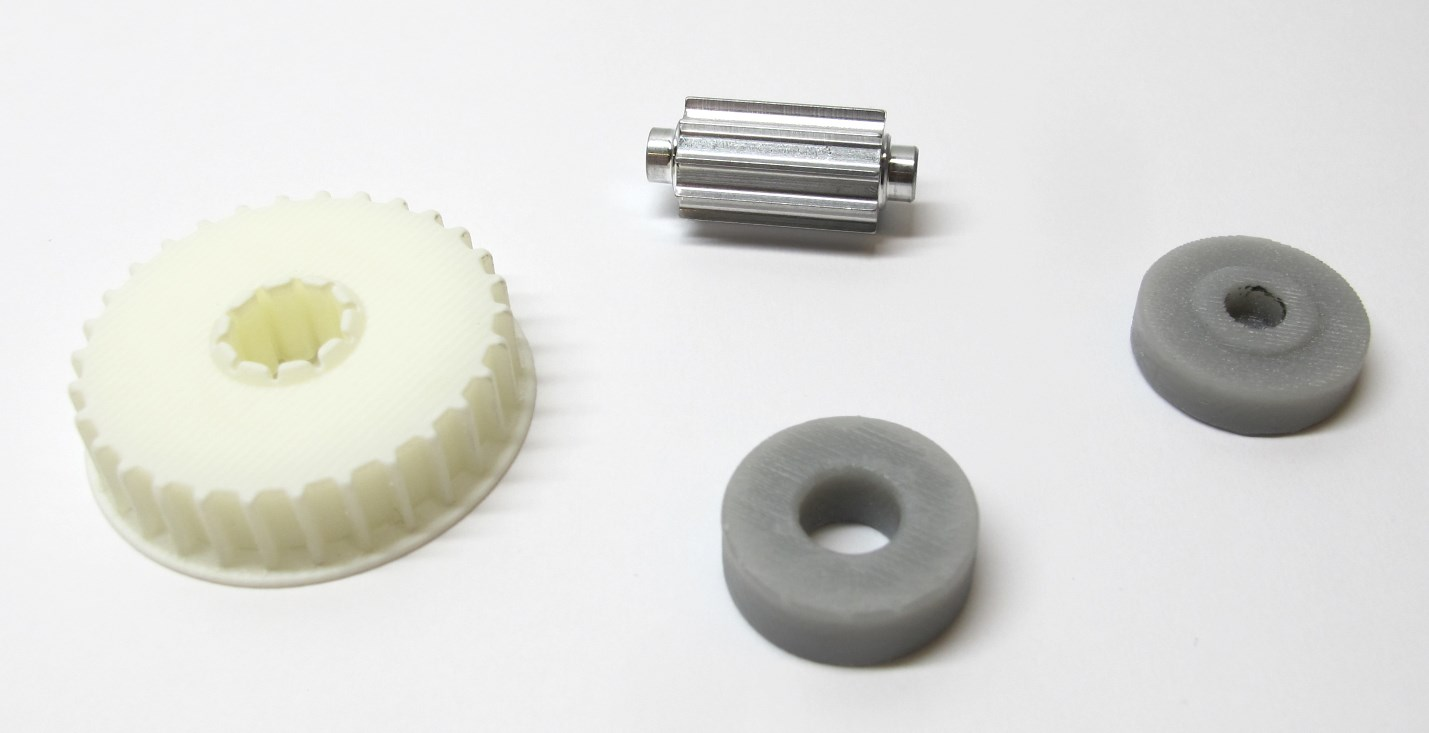
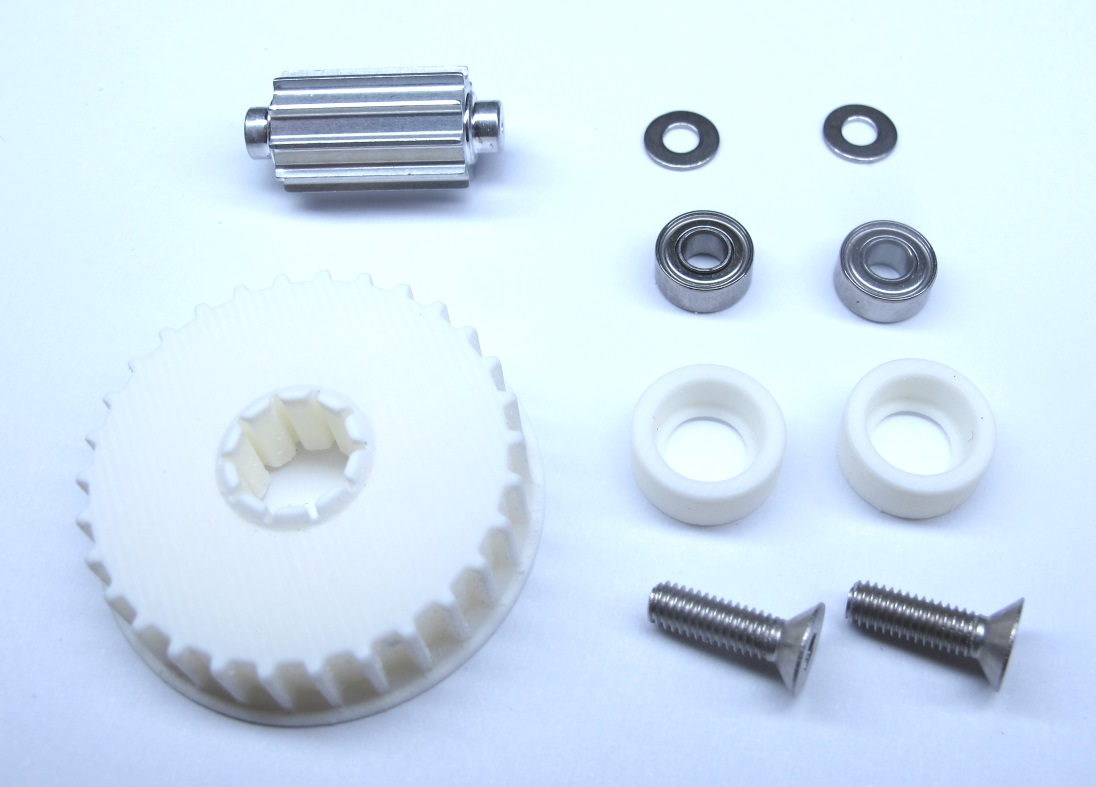
Updating documentation

diff --git a/mechanics/actuator_module_v1/details/details_center_pulley_preparation.md b/mechanics/actuator_module_v1/details/details_center_pulley_preparation.md
@@ -1,10 +1,8 @@
-Details Center Pulley Preparation
-=======================
-<img src="../images/pulley_preparation_7.jpg" width="400"> <br>*Center Pulley Assembled*  
+# Details Center Pulley Preparation
+## Description
+<img src="../images/pulley_preparation_1.jpg" width="300"> <br>*Starting Point: Center Pulley and Timing Belt Tensioner Components*  
 
-Description
-------------
-<img src="../images/pulley_preparation_1.jpg" width="400"> <br>*Center Pulley AT3 T30, Center Pulley AT3 T10 and Assembly Tools*  
+<img src="../images/pulley_preparation_1_1.jpg" width="300"> <br>*End Result: Center Pulley and Timing Belt Tensioners assembled*  
 
 The center pulley is assembled from the 10 tooth aluminium pulley and the 30 tooth 3d printed pulley.  
 The parts are press-fit using an arbor press and 3d printed tools.  
@@ -17,40 +15,78 @@ More information on the machined part: [Details Machined Parts](details_machined
 * [STL File - Tool Center Pulley Protection](../stl_files/tool_center_pulley_protection.STL)
 * [STL File - Tool Center Pulley Assembly](../stl_files/tool_center_pulley_assembly.STL)
 
-Assembly
----------
+## Assembly
+
+<img src="../images/pulley_preparation_1_2.jpg" width="300"> <br>*Text.*
 
 <img src="../images/pulley_preparation_2.jpg" width="300"> <br>*Place the aluminum pulley on the 3d printed pulley. <br> Make sure it's vertical and matches the tooth pattern. <br> Push it in a bit by hand - the centering hole should be facing upwards.*  
+
+<img src="../images/pulley_preparation_2_1.jpg" width="300"> <br>*Place the aluminum pulley on the 3d printed pulley. <br> Make sure it's vertical and matches the tooth pattern. <br> Push it in a bit by hand - the centering hole should be facing upwards.*  
+
 
 <img src="../images/pulley_preparation_3.jpg" width="300"> <br>*Place the protection part on the aluminum pulley.*
 
 <img src="../images/pulley_preparation_4.jpg" width="300"> <br>*Turn your assembly around.<br> Place and center the assembly tool on the bottom side.*
 
+<img src="../images/pulley_preparation_4_1.jpg" width="300"> <br>*Turn your assembly around.<br> Place and center the assembly tool on the bottom side.*
+
 <img src="../images/arbor_press.jpg" width="300"> <br>*We use an arbor press to join the parts.<br>Alternatively you can use a vice.*
 
 <img src="../images/pulley_preparation_5.jpg" width="300"> <br>*Place your stack of parts on the arbor press. <br>Push all the way down using moderate force.*
+
+<img src="../images/pulley_preparation_5_1.jpg" width="300"> <br>*Text.*
+
+<img src="../images/pulley_preparation_5_2.jpg" width="300"> <br>*Text.*
 
 <img src="../images/pulley_preparation_6.jpg" width="300"> <br>*The parts should be flush on the bottom side. <br>Remove scraped-off material with a tooth brush.<br> Use the arbor press again if necessary.*
 
 <img src="../images/pulley_preparation_7.jpg" width="300"> <br>*The center pulley is now ready for installation.*
 
+<img src="../images/pulley_preparation_7_1.jpg" width="300"> <br>*The center pulley is now ready for installation.*
 
-Authors
---------
-Felix Grimminger
+## Timing Belt Tensioner Assembly
+<img src="../images/pulley_preparation_8_1.jpg" width="300"> <br>*Text.*
 
-License
--------
-BSD 3-Clause License
+<img src="../images/pulley_preparation_8_2.jpg" width="300"> <br>*Text.*
 
-Copyright
------------
-Copyright (c) 2019, Max Planck Gesellschaft, New York University
+<img src="../images/pulley_preparation_8_3.jpg" width="300"> <br>*Text.*
 
-More Information
-----------------
+<img src="../images/pulley_preparation_8_4.jpg" width="300"> <br>*Text.*
+
+<img src="../images/pulley_preparation_8_5.jpg" width="300"> <br>*Text.*
+
+<img src="../images/pulley_preparation_8_6.jpg" width="300"> <br>*Text.*
+
+<img src="../images/pulley_preparation_1_1.jpg" width="300"> <br>*Text.*
+
+---
+## Step-by-Step Instructions
+
+| Motor Preparation  | Motor Shaft Preparation | Encoder Preparation |Center Pulley Preparation|
+| --- | --- | --- | --- |
+| <a href="details_motor_preparation.md#details-motor-preparation"><img src="../images/motor_mod_1_1.jpg" width="200"></a>| <a href="details_motor_shaft_preparation.md#details-motor-shaft-preparation"><img src="../images/motor_shaft_preparation_18.jpg" width="200"></a>  | <a href="details_encoder_preparation.md#details-encoder-preparation"><img src="../images/encoder_1.jpg" width="200"></a>  |<a href="details_center_pulley_preparation.md#details-center-pulley-preparation"><img src="../images/pulley_preparation_1_1.jpg" width="200"></a> |
+
+| Output Pulley Preparation | Shell Preparation | Actuator Module Assembly |Actuator Module Testing|
+| --- | --- | --- | --- |
+| <a href="details_output_pulley_preparation.md#details-output-pulley-preparation"><img src="../images/output_pulley_preparation_9.jpg" width="200"></a>| <a href="details_shell_preparation.md#details-shell-preparation"><img src="../../leg_2dof_v1/images/shells_1.jpg" width="200"></a>  | <a href="details_actuator_module_assembly.md#details-actuator-module-assembly"><img src="../images/actuator_module_open_1.jpg" width="200"></a>  |<a href="details_actuator_module_testing.md#details-actuator-module-testing"><img src="../images/actuator_module_1.png" width="200"></a>
+
+---
+## More Information
 [Open Dynamic Robot Initiative - Webpage](https://open-dynamic-robot-initiative.github.io)  
-[Open Dynamic Robot Initiative - YouTube Channel](https://www.youtube.com/channel/UCx32JW2oIrax47Gjq8zNI-w)  
-[Hardware Overview](../../README.md)  
+[Open Dynamic Robot Initiative - YouTube Channel](https://www.youtube.com/channel/UCx32JW2oIrax47Gjq8zNI-w)   
+[Open Dynamic Robot Initiative - Forum](https://odri.discourse.group/categories)  
+[Open Dynamic Robot Initiative - Paper](https://arxiv.org/pdf/1910.00093.pdf)  
+[Hardware Overview](../../README.md#open-robot-actuator-hardware)  
 [Software Overview](https://github.com/open-dynamic-robot-initiative/open-dynamic-robot-initiative.github.io/wiki)  
 [Back to Actuator Module](../README.md)  
+[Back to Top of Page](#details-center-pulley-preparation)
+
+---
+## Authors
+Felix Grimminger
+
+## License
+BSD 3-Clause License
+
+## Copyright
+Copyright (c) 2019-2020, Max Planck Gesellschaft and New York University

diff --git a/mechanics/actuator_module_v1/details/details_motor_preparation.md b/mechanics/actuator_module_v1/details/details_motor_preparation.md
@@ -119,7 +119,7 @@ If the fit is too loose the rotor will wobble when spinning.
 
 | Motor Preparation  | Motor Shaft Preparation | Encoder Preparation |Center Pulley Preparation|
 | --- | --- | --- | --- |
-| <a href="details_motor_preparation.md#details-motor-preparation"><img src="../images/motor_mod_1_1.jpg" width="200"></a>| <a href="details_motor_shaft_preparation.md#details-motor-shaft-preparation"><img src="../images/motor_shaft_preparation_18.jpg" width="200"></a>  | <a href="details_encoder_preparation.md#details-encoder-preparation"><img src="../images/encoder_1.jpg" width="200"></a>  |<a href="details_center_pulley_preparation.md#details-center-pulley-preparation"><img src="../images/pulley_preparation_7.jpg" width="200"></a> |
+| <a href="details_motor_preparation.md#details-motor-preparation"><img src="../images/motor_mod_1_1.jpg" width="200"></a>| <a href="details_motor_shaft_preparation.md#details-motor-shaft-preparation"><img src="../images/motor_shaft_preparation_18.jpg" width="200"></a>  | <a href="details_encoder_preparation.md#details-encoder-preparation"><img src="../images/encoder_1.jpg" width="200"></a>  |<a href="details_center_pulley_preparation.md#details-center-pulley-preparation"><img src="../images/pulley_preparation_1_1.jpg" width="200"></a> |
 
 | Output Pulley Preparation | Shell Preparation | Actuator Module Assembly |Actuator Module Testing|
 | --- | --- | --- | --- |
@@ -136,6 +136,7 @@ If the fit is too loose the rotor will wobble when spinning.
 [Back to Actuator Module](../README.md)  
 [Back to Top of Page](#details-motor-preparation)
 
+---
 ## Authors
 Felix Grimminger
 

diff --git a/mechanics/actuator_module_v1/details/details_encoder_preparation.md b/mechanics/actuator_module_v1/details/details_encoder_preparation.md
@@ -75,7 +75,7 @@
 
 | Motor Preparation  | Motor Shaft Preparation | Encoder Preparation |Center Pulley Preparation|
 | --- | --- | --- | --- |
-| <a href="details_motor_preparation.md#details-motor-preparation"><img src="../images/motor_mod_1_1.jpg" width="200"></a>| <a href="details_motor_shaft_preparation.md#details-motor-shaft-preparation"><img src="../images/motor_shaft_preparation_18.jpg" width="200"></a>  | <a href="details_encoder_preparation.md#details-encoder-preparation"><img src="../images/encoder_1.jpg" width="200"></a>  |<a href="details_center_pulley_preparation.md#details-center-pulley-preparation"><img src="../images/pulley_preparation_7.jpg" width="200"></a> |
+| <a href="details_motor_preparation.md#details-motor-preparation"><img src="../images/motor_mod_1_1.jpg" width="200"></a>| <a href="details_motor_shaft_preparation.md#details-motor-shaft-preparation"><img src="../images/motor_shaft_preparation_18.jpg" width="200"></a>  | <a href="details_encoder_preparation.md#details-encoder-preparation"><img src="../images/encoder_1.jpg" width="200"></a>  |<a href="details_center_pulley_preparation.md#details-center-pulley-preparation"><img src="../images/pulley_preparation_1_1.jpg" width="200"></a> |
 
 | Output Pulley Preparation | Shell Preparation | Actuator Module Assembly |Actuator Module Testing|
 | --- | --- | --- | --- |
@@ -92,6 +92,7 @@
 [Back to Actuator Module](../README.md)  
 [Back to Top of Page](#details-encoder-preparation)
 
+---
 ## Authors
 Felix Grimminger
 

diff --git a/mechanics/actuator_module_v1/details/details_motor_shaft_preparation.md b/mechanics/actuator_module_v1/details/details_motor_shaft_preparation.md
@@ -80,7 +80,7 @@
 
 | Motor Preparation  | Motor Shaft Preparation | Encoder Preparation |Center Pulley Preparation|
 | --- | --- | --- | --- |
-| <a href="details_motor_preparation.md#details-motor-preparation"><img src="../images/motor_mod_1_1.jpg" width="200"></a>| <a href="details_motor_shaft_preparation.md#details-motor-shaft-preparation"><img src="../images/motor_shaft_preparation_18.jpg" width="200"></a>  | <a href="details_encoder_preparation.md#details-encoder-preparation"><img src="../images/encoder_1.jpg" width="200"></a>  |<a href="details_center_pulley_preparation.md#details-center-pulley-preparation"><img src="../images/pulley_preparation_7.jpg" width="200"></a> |
+| <a href="details_motor_preparation.md#details-motor-preparation"><img src="../images/motor_mod_1_1.jpg" width="200"></a>| <a href="details_motor_shaft_preparation.md#details-motor-shaft-preparation"><img src="../images/motor_shaft_preparation_18.jpg" width="200"></a>  | <a href="details_encoder_preparation.md#details-encoder-preparation"><img src="../images/encoder_1.jpg" width="200"></a>  |<a href="details_center_pulley_preparation.md#details-center-pulley-preparation"><img src="../images/pulley_preparation_1_1.jpg" width="200"></a> |
 
 | Output Pulley Preparation | Shell Preparation | Actuator Module Assembly |Actuator Module Testing|
 | --- | --- | --- | --- |
